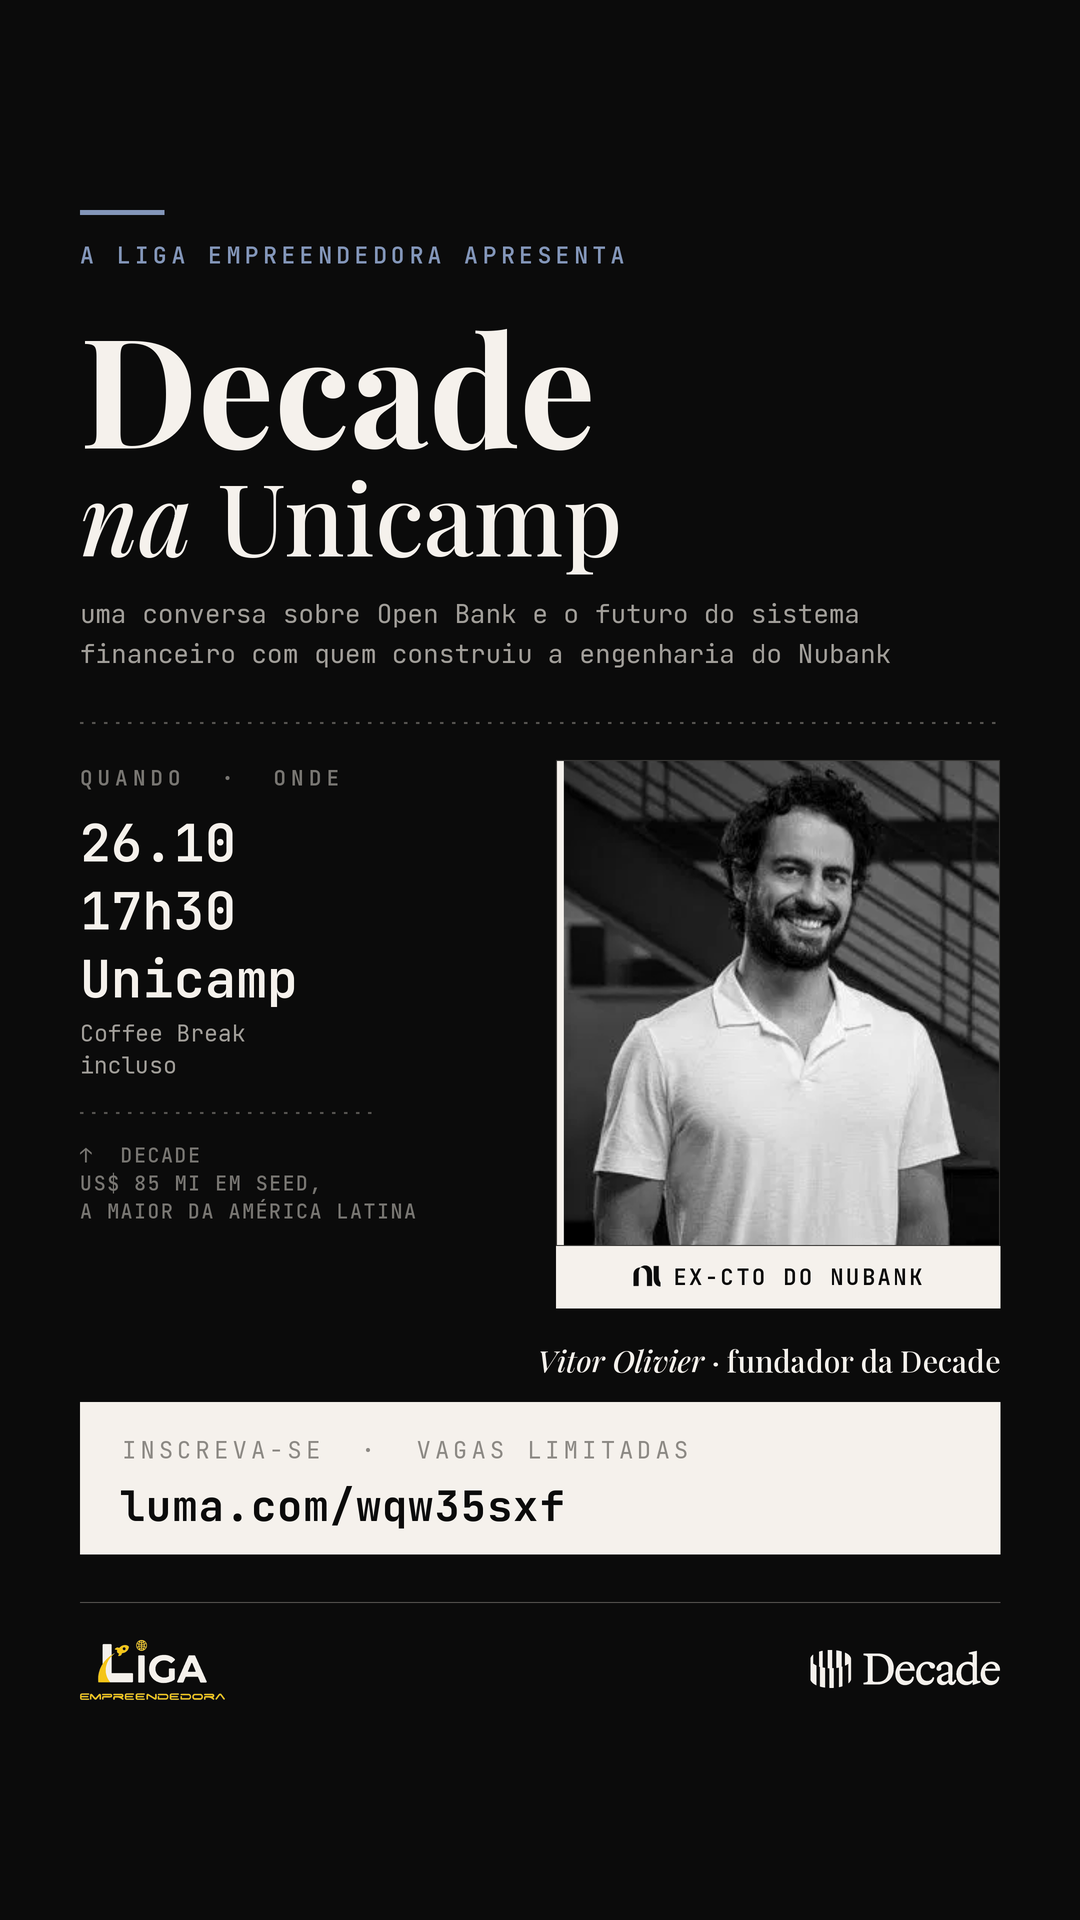
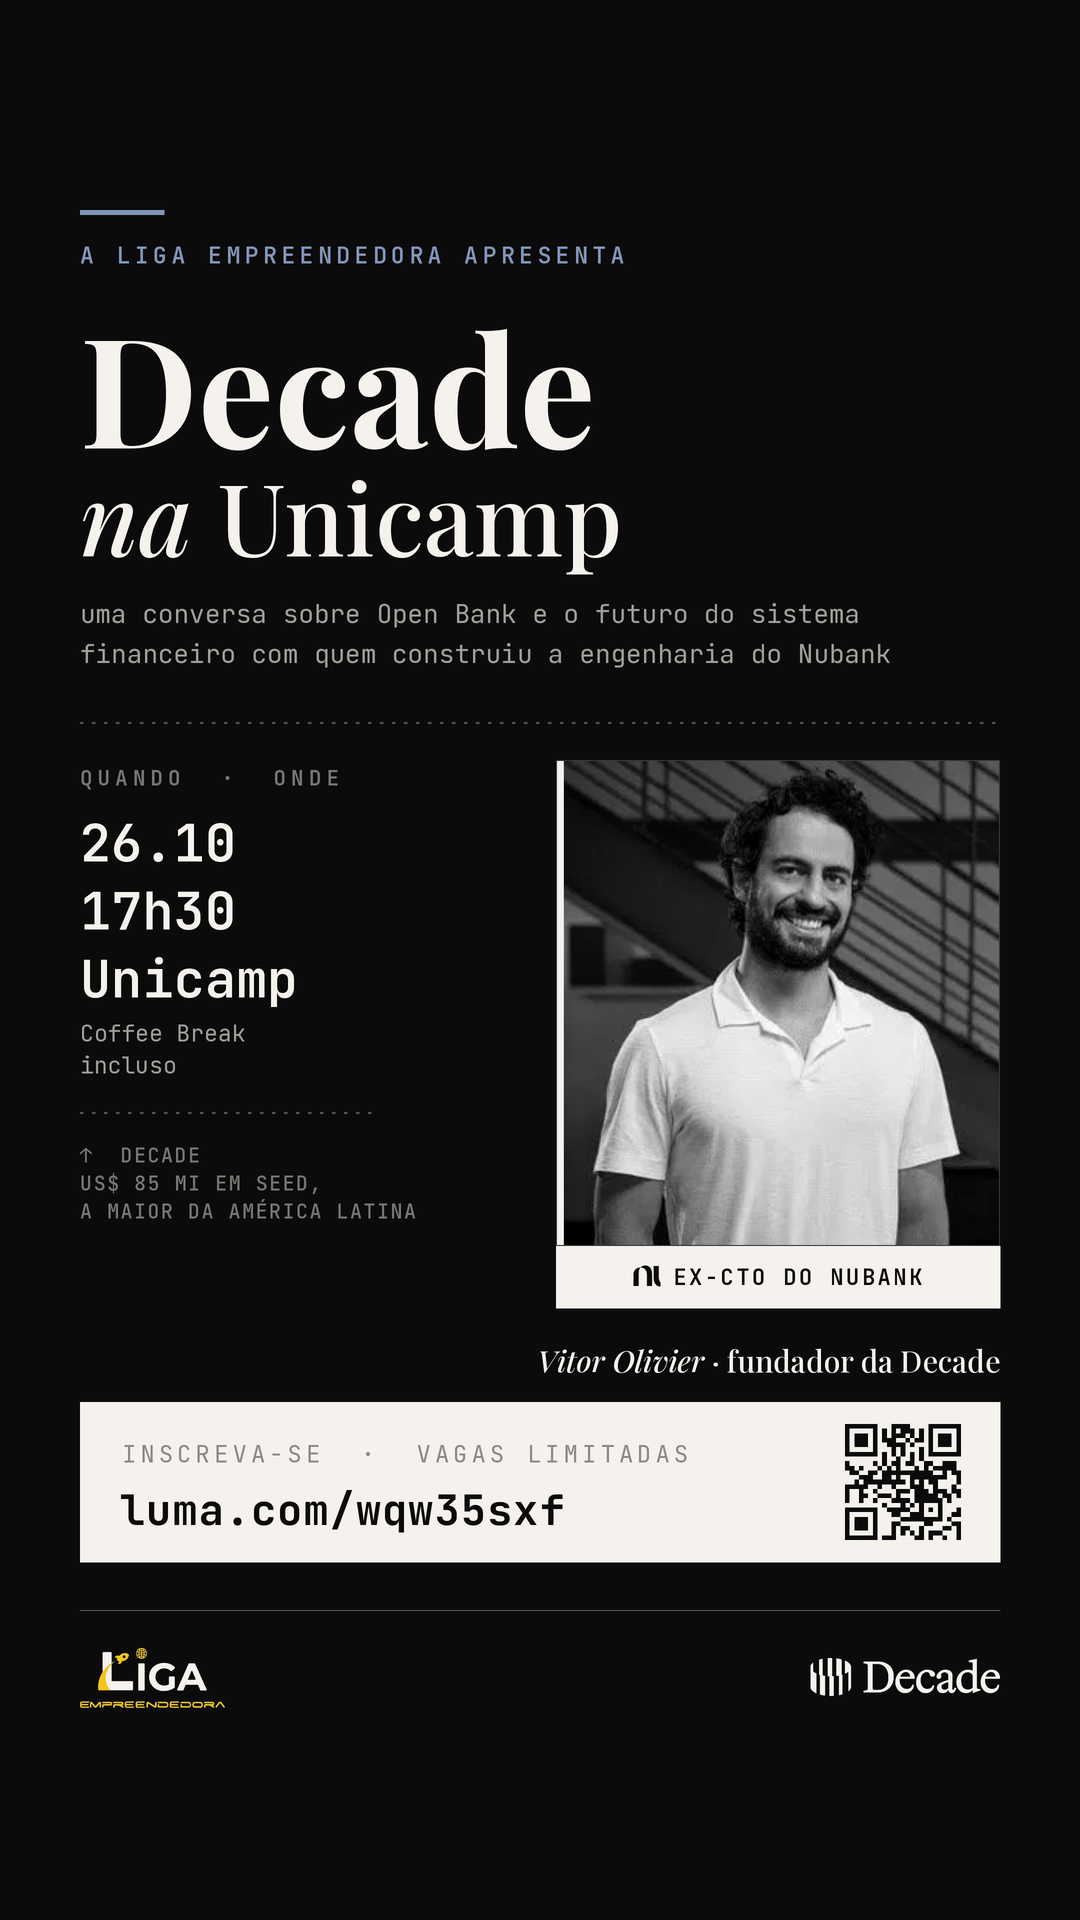
Mantem link escrito e QR juntos no bloco de inscricao
O bloco de inscricao passa a ter o endereco luma.com/wqw35sxf escrito a
esquerda e o QR do mesmo link a direita, cobrindo quem digita, quem escaneia de
outra tela e quem tira print.

- bloco cresce para 160 px de altura para acomodar os dois elementos
- QR carrega a URL completa com https, o texto aparece sem o esquema
- leitura do QR validada nas duas artes depois da reducao para 1080x1920

diff --git a/decade-stories/gerar_story_decade_unicamp.py b/decade-stories/gerar_story_decade_unicamp.py
@@ -23,6 +23,7 @@ Saida:
 
 from pathlib import Path
 
+import qrcode
 from PIL import Image, ImageDraw, ImageFont
 
 BASE = Path(__file__).parent
@@ -33,7 +34,8 @@ ASSETS = BASE / "assets"
 W, H = 1080, 1920          # story vertical 9:16
 SC = 2                     # supersampling: renderiza em 2160x3840 e reduz
 M = 80                     # margem lateral
-LINK = "luma.com/wqw35sxf"  # destino da inscricao, sem o esquema para ficar limpo
+LINK_URL = "https://luma.com/wqw35sxf"   # vai no QR, com esquema para a camera abrir
+LINK_LABEL = "luma.com/wqw35sxf"         # vai escrito na arte, sem esquema
 
 # ---------------------------------------------------------------- cores
 OFFWHITE = (245, 241, 236)
@@ -101,6 +103,19 @@ def dotted(draw, y, x0, x1, color, dot=3, gap=9, thick=2):
 
 def rule(draw, y, x0, x1, color, thick=1):
     draw.rectangle([px(x0), px(y), px(x1), px(y) + px(thick) - 1], fill=color)
+
+
+def qr_block(link, size, pad, fg=BLACK, bg=OFFWHITE):
+    """QR com moldura clara, para ficar escaneavel sobre fundo claro ou escuro."""
+    q = qrcode.QRCode(error_correction=qrcode.constants.ERROR_CORRECT_M, box_size=16, border=0)
+    q.add_data(link)
+    q.make(fit=True)
+    code = q.make_image(fill_color="black", back_color="white").convert("L")
+    code = code.resize((px(size), px(size)), Image.NEAREST)
+    frame = Image.new("RGB", (px(size + 2 * pad), px(size + 2 * pad)), bg)
+    frame.paste(Image.new("RGB", code.size, fg), (px(pad), px(pad)),
+                Image.eval(code, lambda v: 255 - v))
+    return frame
 
 
 def cover(img, box_w, box_h, top_bias=0.05):
@@ -228,12 +243,17 @@ def build(variant="offwhite"):
     d.text((cx, px(cap_y)), nome, font=f_cap_it, fill=ink)
     d.text((cx + wn, px(cap_y)), resto, font=f_cap, fill=ink)
 
-    # ---- CTA, o proprio link e a chamada
-    cta_y, cta_h = 1402, 152
+    # ---- CTA, link escrito para quem digita e QR para quem escaneia
+    cta_y, cta_h = 1402, 160
     d.rectangle([px(M), px(cta_y), px(W - M), px(cta_y + cta_h)], fill=block_bg)
-    tracked(d, (M + 42, cta_y + 32), "INSCREVA-SE  ·  VAGAS LIMITADAS",
+    tracked(d, (M + 42, cta_y + 36), "INSCREVA-SE  ·  VAGAS LIMITADAS",
             f_cta2, block_soft, tracking=4)
-    tracked(d, (M + 40, cta_y + 76), LINK, f_cta, block_ink, tracking=1)
+    tracked(d, (M + 40, cta_y + 80), LINK_LABEL, f_cta, block_ink, tracking=1)
+
+    qs, qpad = 116, 11
+    qr = qr_block(LINK_URL, qs, qpad, fg=BLACK, bg=OFFWHITE)
+    canvas.paste(qr, (px(W - M - 28) - qr.width,
+                      px(cta_y + (cta_h - qs - 2 * qpad) / 2)))
 
     # ---- rodape: lockup dos dois logos
     foot = cta_y + cta_h + 48

diff --git a/decade-stories/README.md b/decade-stories/README.md
@@ -15,7 +15,9 @@ a mesma linguagem dos panfletos `panfleto6.png` / `panfelto7.png`.
 | `assets/` | retrato, wordmark "nu" e logos recortados do panfleto oficial |
 | `fonts/` | Playfair Display, JetBrains Mono, Montserrat e Anton (Google Fonts, licença OFL inclusa) |
 
-Para regerar, rode `python gerar_story_decade_unicamp.py` com Pillow e numpy instalados.
+Para regerar, rode `python gerar_story_decade_unicamp.py` com Pillow, numpy e qrcode
+instalados. O QR é gerado na hora a partir do link, então não há perda de qualidade em
+nenhum tamanho.
 
 ## Texto da peça
 
@@ -26,7 +28,8 @@ Para regerar, rode `python gerar_story_decade_unicamp.py` com Pillow e numpy ins
 - Dados, `26.10 · 17h30 · Unicamp`, com Coffee Break incluso
 - Credencial em mono, `↑ DECADE · US$ 85 MI EM SEED, A MAIOR DA AMÉRICA LATINA`
 - Convidado, `Vitor Olivier · fundador da Decade`, com o selo `nu EX-CTO DO NUBANK` sobre o retrato
-- CTA, `INSCREVA-SE · VAGAS LIMITADAS` com o link `luma.com/wqw35sxf` em destaque
+- CTA, `INSCREVA-SE · VAGAS LIMITADAS` com o link `luma.com/wqw35sxf` escrito em destaque
+  e o QR do mesmo endereço à direita
 
 Quem lidera a leitura é a Decade, que é o nome de peso do evento. Open Bank entra como tema
 na linha de apoio, e a autoria da Liga aparece no chapéu e no lockup do rodapé.
@@ -50,12 +53,17 @@ conversa com as outras peças da campanha sem retrabalho de arquivo.
 Todo o conteúdo vive entre `y=210` e `y=1702`. O topo fica livre para o avatar e o botão de
 fechar, e a base deixa espaço para a barra de resposta.
 
-O link aparece escrito no bloco escuro, então quem vê o story consegue digitar. Vale somar
-o sticker de link do Instagram em cima do bloco para deixar o clique direto, já que texto
-escrito na imagem não é clicável.
+O bloco de inscrição traz o endereço escrito e o QR do mesmo link, então funciona para quem
+digita, para quem escaneia de outra tela e para quem só tira print. Vale somar o sticker de
+link do Instagram em cima do bloco para deixar o clique direto, já que texto escrito na
+imagem não é clicável.
+
+O QR carrega o endereço completo com `https://`, e o texto aparece sem o esquema para a
+leitura ficar limpa. As duas artes foram validadas com leitor de QR depois de reduzidas para
+1080x1920.
 
 ## Legenda sugerida para repost no feed
 
 > A gente trouxe a Decade pra Unicamp. Dia 26.10, às 17h30, conversa com Vitor Olivier,
 > ex-CTO do Nubank e fundador da Decade, sobre Open Bank e a engenharia que sustenta uma
-> fintech desse tamanho. Vagas limitadas, inscrição em luma.com/wqw35sxf.
+> fintech desse tamanho. Vagas limitadas, inscrição em luma.com/wqw35sxf ou pelo QR do story.
